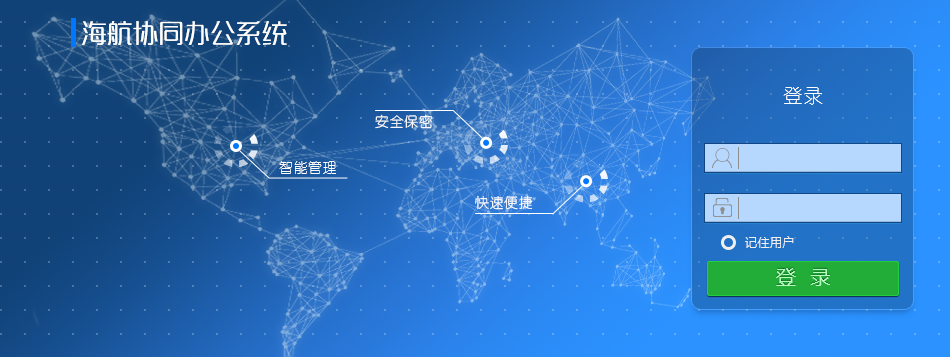
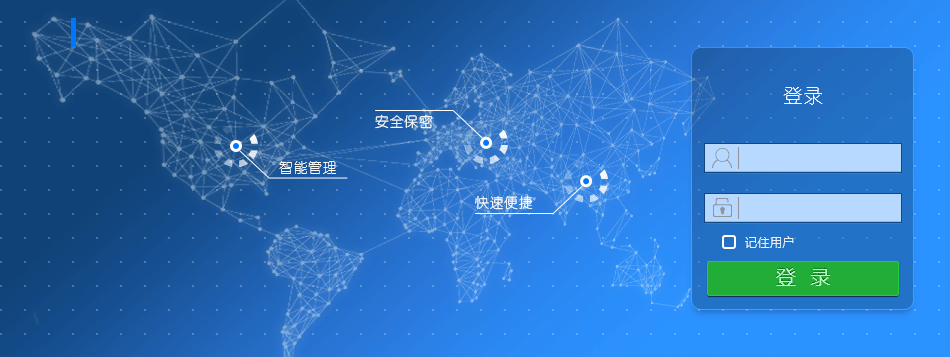
替换文字：【登陆页】替换标题“海航”-->“雄图”

Changed region(s): [[0.0916, 0.0616, 0.3053, 0.1232], [0.7632, 0.6471, 0.7937, 0.7087]]

diff --git a/web/src/main/webapp/index.html b/web/src/main/webapp/index.html
@@ -38,7 +38,15 @@
             height: 357px;
             position: absolute;
             top: 100px;
+        }
 
+        .loginbox .title {
+            position: absolute;
+            top: 14px;
+            left: 85px;
+            color: #fff;
+            font-size: 26px;
+            font-family: "微软雅黑", "宋体", "Arial", "Helvetica", "sans-serif";
         }
 
         form {
@@ -276,6 +284,7 @@
 <body id="eccrm.login" ng-app="eccrm.login">
 <div id="main">
     <div class="loginbox" ng-controller="Ctrl">
+        <div class="title">雄图协同办公系统</div>
         <form name="loginForm" role="form">
             <div id="bowlG">
                 <div id="bowl_ringG">
